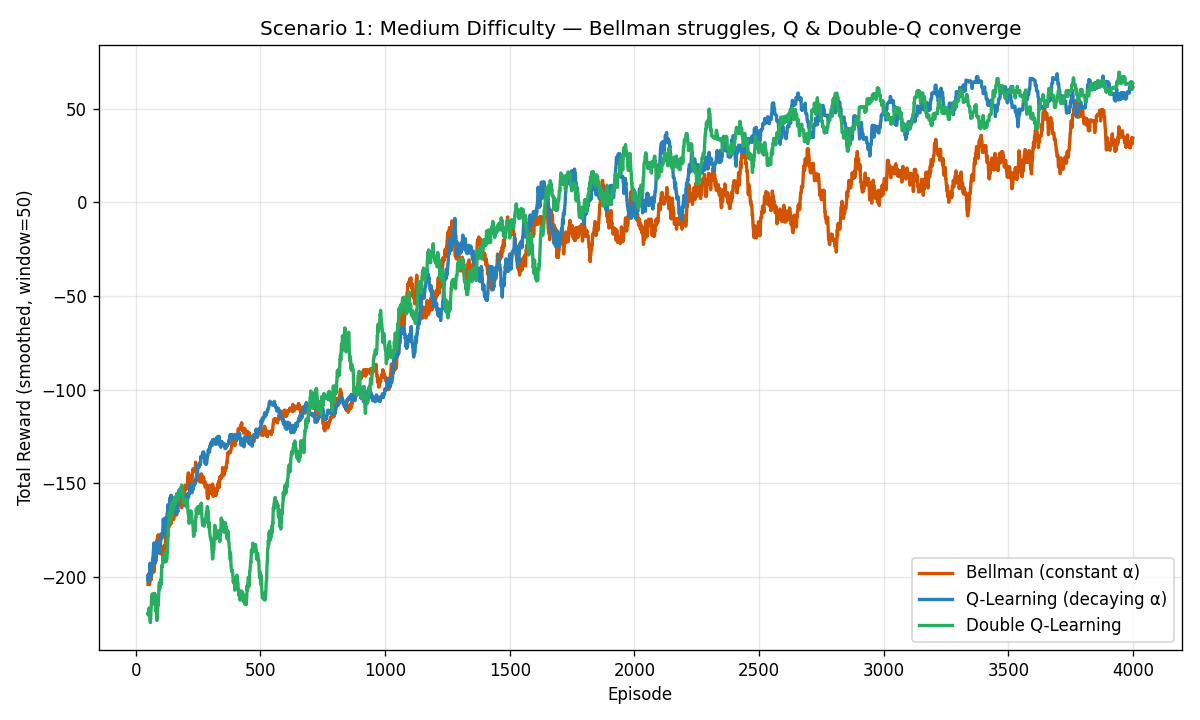
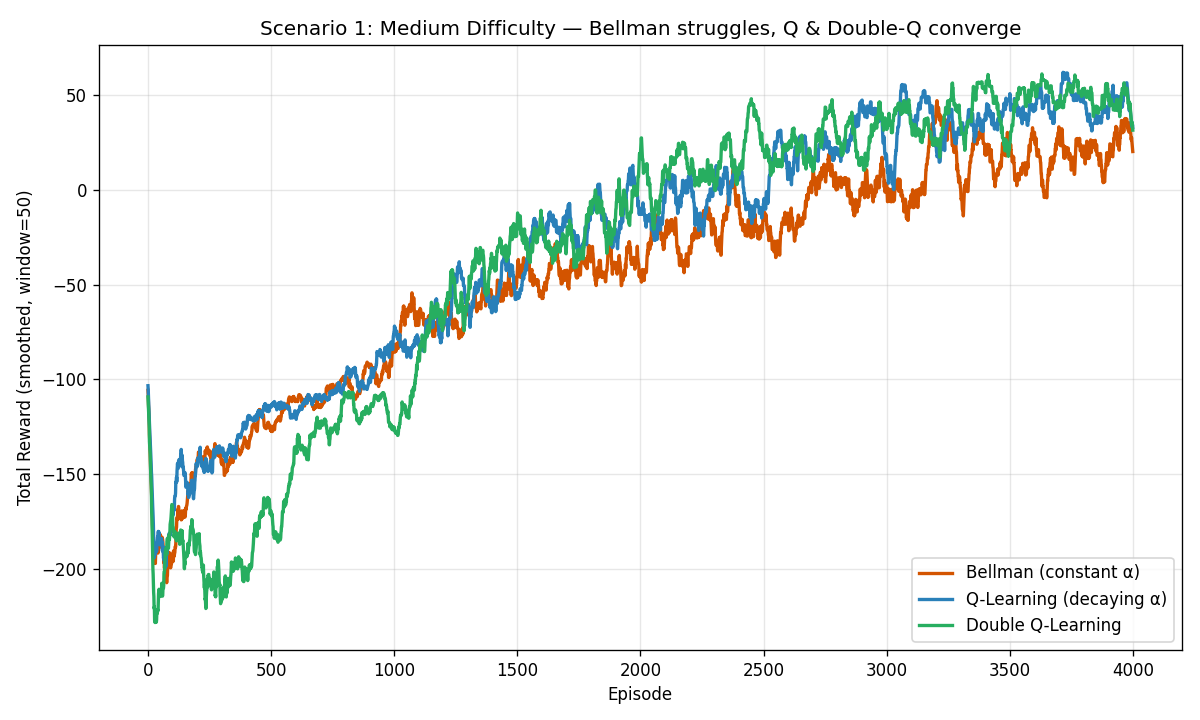
Fix audit findings: split test_sdk, goal-event convergence, smoothing mode=same
- Split tests/test_sdk.py (163 lines, over 150 limit) into sdk.py
  and tests/test_sdk_comparison.py so every test file is under the
  150-line cap.
- game_logic.check_convergence now uses a dedicated goal_history
  flag list (True on info event 'goal'), replacing the fragile
  reward > 0 heuristic that missed slow wins and counted zero-net
  episodes as failures.
- comparison.smooth now uses numpy 'same' mode so the smoothed
  curve starts at episode 0 instead of episode window-1, which was
  hiding the early convergence the graph is supposed to show.
  generate_comparison_chart x-axis updated accordingly.
- Regenerated the two scenario PNGs with the new smoothing.
- Updated affected tests and removed an unused pytest import.

diff --git a/tests/test_sdk_comparison.py b/tests/test_sdk_comparison.py
@@ -1,0 +1,65 @@
+"""Tests for SDK algorithm switching, comparison, and hazard integration."""
+
+import pytest
+
+from src.config_loader import Config, load_config
+from src.sdk import DroneRLSDK
+
+
+@pytest.fixture
+def sdk():
+    return DroneRLSDK("config/config.yaml")
+
+
+class TestSwitchAlgorithm:
+    def test_switch_changes_algorithm_name(self, sdk):
+        sdk.switch_algorithm("q_learning")
+        assert sdk.config.algorithm.name == "q_learning"
+        assert sdk.agent.algorithm_name == "Q-Learning"
+
+    def test_switch_to_double_q(self, sdk):
+        sdk.switch_algorithm("double_q")
+        assert sdk.agent.algorithm_name == "Double Q-Learning"
+
+    def test_switch_resets_training_state(self, sdk):
+        sdk.train_step()
+        assert sdk.episode_count == 1
+        sdk.switch_algorithm("q_learning")
+        assert sdk.episode_count == 0
+
+
+class TestComparison:
+    def test_run_comparison_populates_store(self, sdk):
+        sdk.run_comparison(episodes=2)
+        assert set(sdk.comparison.runs) == {"bellman", "q_learning", "double_q"}
+        for runs in sdk.comparison.runs.values():
+            assert len(runs) == 2
+
+    def test_run_comparison_restores_original_algorithm(self, sdk):
+        original = sdk.config.algorithm.name
+        original_agent_class = type(sdk.agent)
+        sdk.run_comparison(episodes=2)
+        assert sdk.config.algorithm.name == original
+        assert isinstance(sdk.agent, original_agent_class)
+
+    def test_generate_chart_produces_file(self, sdk, tmp_path):
+        sdk.run_comparison(episodes=2)
+        out = tmp_path / "chart.png"
+        path = sdk.generate_chart(str(out))
+        assert path == str(out)
+        assert out.exists()
+
+
+class TestHazardIntegration:
+    def test_regenerate_hazards_returns_count(self, sdk):
+        sdk.config.dynamic_board.hazard_density = 0.2
+        sdk.config.dynamic_board.difficulty = 0.5
+        sdk.hazards = type(sdk.hazards)(sdk.config)
+        placed = sdk.regenerate_hazards()
+        assert placed >= 0
+
+
+def test_config_loader_still_valid():
+    """Sanity: Config class still works after all additions."""
+    cfg = Config(load_config("config/config.yaml"))
+    assert cfg.algorithm.name in {"bellman", "q_learning", "double_q"}

diff --git a/tests/test_sdk.py b/tests/test_sdk.py
@@ -113,51 +113,3 @@ class TestSetCell:
 
     def test_goal_rate_property(self, sdk):
         assert sdk.goal_rate == 0.0
-
-
-class TestSwitchAlgorithm:
-    def test_switch_changes_algorithm_name(self, sdk):
-        sdk.switch_algorithm("q_learning")
-        assert sdk.config.algorithm.name == "q_learning"
-        assert sdk.agent.algorithm_name == "Q-Learning"
-
-    def test_switch_to_double_q(self, sdk):
-        sdk.switch_algorithm("double_q")
-        assert sdk.agent.algorithm_name == "Double Q-Learning"
-
-    def test_switch_resets_training_state(self, sdk):
-        sdk.train_step()
-        assert sdk.episode_count == 1
-        sdk.switch_algorithm("q_learning")
-        assert sdk.episode_count == 0
-
-
-class TestComparison:
-    def test_run_comparison_populates_store(self, sdk):
-        sdk.run_comparison(episodes=2)
-        assert set(sdk.comparison.runs) == {"bellman", "q_learning", "double_q"}
-        for runs in sdk.comparison.runs.values():
-            assert len(runs) == 2
-
-    def test_run_comparison_restores_original_algorithm(self, sdk):
-        original = sdk.config.algorithm.name
-        original_agent_class = type(sdk.agent)
-        sdk.run_comparison(episodes=2)
-        assert sdk.config.algorithm.name == original
-        assert isinstance(sdk.agent, original_agent_class)
-
-    def test_generate_chart_produces_file(self, sdk, tmp_path):
-        sdk.run_comparison(episodes=2)
-        out = tmp_path / "chart.png"
-        path = sdk.generate_chart(str(out))
-        assert path == str(out)
-        assert out.exists()
-
-
-class TestHazardIntegration:
-    def test_regenerate_hazards_returns_count(self, sdk):
-        sdk.config.dynamic_board.hazard_density = 0.2
-        sdk.config.dynamic_board.difficulty = 0.5
-        sdk.hazards = type(sdk.hazards)(sdk.config)
-        placed = sdk.regenerate_hazards()
-        assert placed >= 0

diff --git a/src/game_logic.py b/src/game_logic.py
@@ -24,6 +24,7 @@ class GameLogic:
         self.total_reward = 0.0
         self.goals_reached = 0
         self.reward_history = []
+        self.goal_history: list[bool] = []
 
         self.demo_mode = False
         self.demo_timer = 0
@@ -47,9 +48,11 @@ class GameLogic:
         self.steps += 1
         self.total_reward += reward
         if done or self.steps >= self.max_steps:
-            if info.get("event") == "goal":
+            reached_goal = info.get("event") == "goal"
+            if reached_goal:
                 self.goals_reached += 1
             self.reward_history.append(self.total_reward)
+            self.goal_history.append(reached_goal)
             self.agent.decay_epsilon()
             self.episode += 1
             self.total_reward, self.steps = 0.0, 0
@@ -64,9 +67,7 @@ class GameLogic:
         if self.agent.epsilon > self.max_eps_converge:
             return False
         w = self.converge_window
-        recent_goals = sum(
-            1 for r in self.reward_history[-w:] if r > 0
-        )
+        recent_goals = sum(self.goal_history[-w:])
         if recent_goals / w >= self.converge_rate:
             self.converged = True
             return True
@@ -117,6 +118,7 @@ class GameLogic:
         self.episode = self.steps = self.goals_reached = 0
         self.total_reward = 0.0
         self.reward_history.clear()
+        self.goal_history.clear()
         self.demo_mode = False
         self.converged = False
         self.state = self.env.reset()

diff --git a/src/comparison.py b/src/comparison.py
@@ -40,13 +40,13 @@ class ComparisonStore:
 
 
 def smooth(values: list[float], window: int) -> list[float]:
-    """Apply a moving-average smoothing of the given window size."""
+    """Moving-average smoothing; output length == input length so x starts at 0."""
     if len(values) < 2 or window <= 1:
         return list(values)
     arr = np.asarray(values, dtype=float)
     eff = min(window, len(arr))
     kernel = np.ones(eff) / eff
-    return list(np.convolve(arr, kernel, mode="valid"))
+    return list(np.convolve(arr, kernel, mode="same"))
 
 
 def generate_comparison_chart(
@@ -64,7 +64,7 @@ def generate_comparison_chart(
         if not history:
             continue
         smoothed = smooth(history, smoothing_window)
-        x = np.arange(len(smoothed)) + (len(history) - len(smoothed))
+        x = np.arange(len(smoothed))
         ax.plot(
             x, smoothed,
             label=ALGORITHM_LABELS[algo],

diff --git a/tests/test_comparison.py b/tests/test_comparison.py
@@ -1,6 +1,5 @@
 """Tests for the comparison store and chart generator."""
 
-import pytest
 
 from src.comparison import (
     ALGORITHM_LABELS,
@@ -43,13 +42,14 @@ class TestSmooth:
     def test_smooth_identity_when_window_one(self):
         assert smooth([1.0, 2.0, 3.0], 1) == [1.0, 2.0, 3.0]
 
-    def test_smooth_moving_average(self):
+    def test_smooth_output_length_equals_input(self):
         result = smooth([1.0, 2.0, 3.0, 4.0], 2)
-        assert result == pytest.approx([1.5, 2.5, 3.5])
+        assert len(result) == 4
 
-    def test_smooth_window_larger_than_data(self):
+    def test_smooth_preserves_order_of_magnitude(self):
         result = smooth([1.0, 2.0, 3.0], 10)
-        assert result == pytest.approx([2.0])  # avg of [1,2,3]
+        # Every output should be within the min/max of the input
+        assert min(result) >= 0.0 and max(result) <= 3.0
 
 
 class TestChartGeneration:

diff --git a/tests/test_game_logic.py b/tests/test_game_logic.py
@@ -38,7 +38,7 @@ def test_check_convergence_covers_guard_clauses_and_success(ui_logic):
     assert ui_logic.check_convergence() is False
 
     ui_logic.agent.epsilon = ui_logic.max_eps_converge
-    ui_logic.reward_history = [100.0] * ui_logic.converge_window
+    ui_logic.goal_history = [True] * ui_logic.converge_window
     assert ui_logic.check_convergence() is True
     assert ui_logic.converged is True
     assert ui_logic.check_convergence() is False
